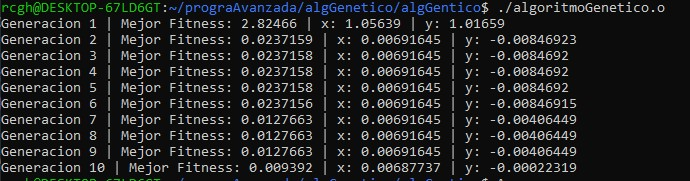
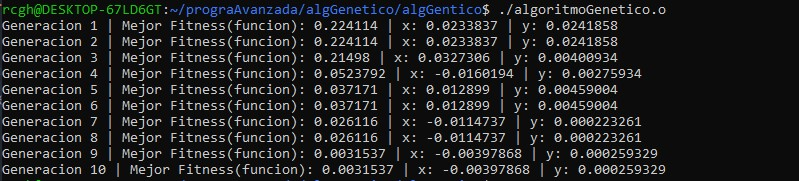
Actualizacion2

diff --git a/Tarea5/codigos/algoritGenetico.cpp b/Tarea5/codigos/algoritGenetico.cpp
@@ -13,6 +13,7 @@
 
 using namespace std;
 
+// Idea cruzar -> mutar -> decodificar -> evaluar
 // Definimos a el individuo
 typedef struct
 {
@@ -143,7 +144,7 @@ int main()
     double probCruza = 0.9;
     double probMutacion = 0.01;
     int numGeneraciones = 10;
-    // cruzar -> mutar -> decodificar -> evaluar
+
     random_device rd;
     mt19937 gen(rd());
 
